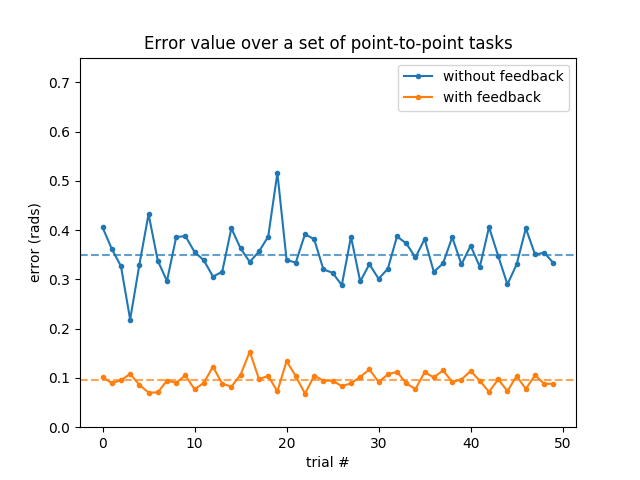
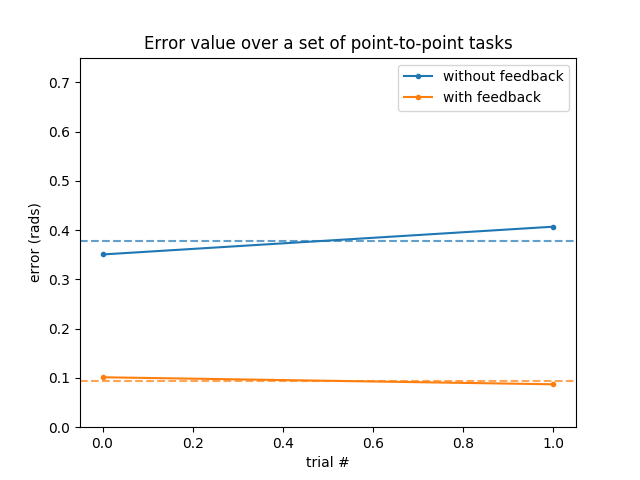
task switch is added now

diff --git a/main.py b/main.py
@@ -22,62 +22,70 @@ np.random.seed(0)
 
 P = np.array([10, 15])
 I = np.array([2, 6])
-trial_number = 50
+trial_number = 2
 
-features=np.ones(10,)
-cycle_durations = np.linspace(.1,10,trial_number)
-test1_no = cycle_durations.shape[0]
-exp1_average_error = np.zeros([2,test1_no]) # first row open-loop and second row close-loop
-#cycle length experiment
-for cycle_duration_in_seconds, ii in zip(cycle_durations, range(test1_no)):
-	[q0_filtered, q1_filtered]  = feat_to_positions_fcn(features, timestep=0.005, cycle_duration_in_seconds = cycle_duration_in_seconds, show=False)
-	q0_filtered_10 = np.tile(q0_filtered,10)
-	q1_filtered_10 = np.tile(q1_filtered,10)
-	desired_kinematics = positions_to_kinematics_fcn(q0_filtered_10, q1_filtered_10, timestep = 0.005)
-	exp1_average_error[0,ii] = openloop_run_fcn(model=model, desired_kinematics=desired_kinematics, plot_outputs=False, Mj_render=False)
-	exp1_average_error[1,ii] = closeloop_run_fcn(model=model, desired_kinematics=desired_kinematics, P=P, I=I, plot_outputs=False, Mj_render=False) # K = [10, 15]
+experiments_switch=[0, 0, 1, 0]
+for ii in range(len(experiments_switch)):
+	globals()["exp{}_average_error".format(ii+1)]=np.zeros([2,1])
 
-test2_no = trial_number
-exp2_average_error = np.zeros([2,test2_no])
-for ii in range(test2_no):
-	features = np.random.rand(10)*.8+.2
-	[q0_filtered, q1_filtered]  = feat_to_positions_fcn(features, timestep=0.005, cycle_duration_in_seconds = 3.3, show=False)
-	#import pdb; pdb.set_trace()
-	q0_filtered_10 = np.tile(q0_filtered,10)
-	q1_filtered_10 = np.tile(q1_filtered,10)
-	desired_kinematics = positions_to_kinematics_fcn(q0_filtered_10, q1_filtered_10, timestep = 0.005)
-	exp2_average_error[0,ii] = openloop_run_fcn(model=model, desired_kinematics=desired_kinematics, plot_outputs=False, Mj_render=False)
-	exp2_average_error[1,ii] = closeloop_run_fcn(model=model, desired_kinematics=desired_kinematics, P=P, I=I, plot_outputs=False, Mj_render=False) # K = [10, 15]
-	#print("error_without: ", exp2_average_error[0,0], "error with: ", exp2_average_error[1,0])
 
-test3_no = trial_number
-exp3_average_error = np.zeros([2,test3_no])
-for ii in range(test3_no):
-	q0 = p2p_positions_gen_fcn(low=-np.pi/3, high=np.pi/3, number_of_positions=10, duration_of_each_position=3, timestep=.005)
-	q1 = p2p_positions_gen_fcn(low=-np.pi/2, high=0, number_of_positions=10, duration_of_each_position=3, timestep=.005)
+if experiments_switch[0] ==1:
+	features=np.ones(10,)
+	cycle_durations = np.linspace(.1,10,trial_number)
+	test1_no = cycle_durations.shape[0]
+	exp1_average_error = np.zeros([2,test1_no]) # first row open-loop and second row close-loop
+	#cycle length experiment
+	for cycle_duration_in_seconds, ii in zip(cycle_durations, range(test1_no)):
+		[q0_filtered, q1_filtered]  = feat_to_positions_fcn(features, timestep=0.005, cycle_duration_in_seconds = cycle_duration_in_seconds, show=False)
+		q0_filtered_10 = np.tile(q0_filtered,10)
+		q1_filtered_10 = np.tile(q1_filtered,10)
+		desired_kinematics = positions_to_kinematics_fcn(q0_filtered_10, q1_filtered_10, timestep = 0.005)
+		exp1_average_error[0,ii] = openloop_run_fcn(model=model, desired_kinematics=desired_kinematics, plot_outputs=False, Mj_render=False)
+		exp1_average_error[1,ii] = closeloop_run_fcn(model=model, desired_kinematics=desired_kinematics, P=P, I=I, plot_outputs=False, Mj_render=False) # K = [10, 15]
+
+if experiments_switch[1] ==1:
+	test2_no = trial_number
+	exp2_average_error = np.zeros([2,test2_no])
+	for ii in range(test2_no):
+		features = np.random.rand(10)*.8+.2
+		[q0_filtered, q1_filtered]  = feat_to_positions_fcn(features, timestep=0.005, cycle_duration_in_seconds = 3.3, show=False)
+		#import pdb; pdb.set_trace()
+		q0_filtered_10 = np.tile(q0_filtered,10)
+		q1_filtered_10 = np.tile(q1_filtered,10)
+		desired_kinematics = positions_to_kinematics_fcn(q0_filtered_10, q1_filtered_10, timestep = 0.005)
+		exp2_average_error[0,ii] = openloop_run_fcn(model=model, desired_kinematics=desired_kinematics, plot_outputs=False, Mj_render=False)
+		exp2_average_error[1,ii] = closeloop_run_fcn(model=model, desired_kinematics=desired_kinematics, P=P, I=I, plot_outputs=False, Mj_render=False) # K = [10, 15]
+		#print("error_without: ", exp2_average_error[0,0], "error with: ", exp2_average_error[1,0])
+
+if experiments_switch[2] ==1:
+	test3_no = trial_number
+	exp3_average_error = np.zeros([2,test3_no])
+	for ii in range(test3_no):
+		q0 = p2p_positions_gen_fcn(low=-np.pi/3, high=np.pi/3, number_of_positions=10, duration_of_each_position=3, timestep=.005)
+		q1 = p2p_positions_gen_fcn(low=-np.pi/2, high=0, number_of_positions=10, duration_of_each_position=3, timestep=.005)
+		desired_kinematics = positions_to_kinematics_fcn(q0, q1, timestep = 0.005)
+		exp3_average_error[0,ii] = openloop_run_fcn(model=model, desired_kinematics=desired_kinematics, plot_outputs=False, Mj_render=False)
+		exp3_average_error[1,ii] = closeloop_run_fcn(model=model, desired_kinematics=desired_kinematics,  P=P, I=I, plot_outputs=False, Mj_render=False) # K = [10, 15]
+
+if experiments_switch[3] ==1:
+	test4_no = 1
+	exp4_average_error = np.zeros([2,test4_no])
+	q0 = p2p_positions_gen_fcn(low=np.pi/3, high=np.pi/3, number_of_positions=1, duration_of_each_position=1, timestep=.005)
+	q0 = np.append(q0,p2p_positions_gen_fcn(low=0, high=0, number_of_positions=1, duration_of_each_position=14, timestep=.005))
+	q1 = p2p_positions_gen_fcn(low=-np.pi/2, high=-np.pi/2, number_of_positions=1, duration_of_each_position=1, timestep=.005)
+	q1 = np.append(q1,p2p_positions_gen_fcn(low=0, high=0, number_of_positions=1, duration_of_each_position=14, timestep=.005))
 	desired_kinematics = positions_to_kinematics_fcn(q0, q1, timestep = 0.005)
-	exp3_average_error[0,ii] = openloop_run_fcn(model=model, desired_kinematics=desired_kinematics, plot_outputs=False, Mj_render=False)
-	exp3_average_error[1,ii] = closeloop_run_fcn(model=model, desired_kinematics=desired_kinematics,  P=P, I=I, plot_outputs=False, Mj_render=False) # K = [10, 15]
-
-
-test4_no = 1
-exp4_average_error = np.zeros([2,test4_no])
-q0 = p2p_positions_gen_fcn(low=np.pi/3, high=np.pi/3, number_of_positions=1, duration_of_each_position=1, timestep=.005)
-q0 = np.append(q0,p2p_positions_gen_fcn(low=0, high=0, number_of_positions=1, duration_of_each_position=14, timestep=.005))
-q1 = p2p_positions_gen_fcn(low=-np.pi/2, high=-np.pi/2, number_of_positions=1, duration_of_each_position=1, timestep=.005)
-q1 = np.append(q1,p2p_positions_gen_fcn(low=0, high=0, number_of_positions=1, duration_of_each_position=14, timestep=.005))
-desired_kinematics = positions_to_kinematics_fcn(q0, q1, timestep = 0.005)
-exp4_average_error[0,:] = openloop_run_fcn(model=model, desired_kinematics=desired_kinematics, model_ver=2, plot_outputs=False, Mj_render=False)
-q0 = p2p_positions_gen_fcn(low=np.pi/3, high=np.pi/3, number_of_positions=1, duration_of_each_position=1, timestep=.005)
-q0 = np.append(q0,p2p_positions_gen_fcn(low=0, high=0, number_of_positions=1, duration_of_each_position=4, timestep=.005))
-q1 = p2p_positions_gen_fcn(low=-np.pi/2, high=-np.pi/2, number_of_positions=1, duration_of_each_position=1, timestep=.005)
-q1 = np.append(q1,p2p_positions_gen_fcn(low=0, high=0, number_of_positions=1, duration_of_each_position=4, timestep=.005))
-desired_kinematics = positions_to_kinematics_fcn(q0, q1, timestep = 0.005)
-exp4_average_error[1,:] = closeloop_run_fcn(model=model, desired_kinematics=desired_kinematics,  P=P, I=I, model_ver=2, plot_outputs=False, Mj_render=False)
+	exp4_average_error[0,:] = openloop_run_fcn(model=model, desired_kinematics=desired_kinematics, model_ver=2, plot_outputs=False, Mj_render=False)
+	q0 = p2p_positions_gen_fcn(low=np.pi/3, high=np.pi/3, number_of_positions=1, duration_of_each_position=1, timestep=.005)
+	q0 = np.append(q0,p2p_positions_gen_fcn(low=0, high=0, number_of_positions=1, duration_of_each_position=4, timestep=.005))
+	q1 = p2p_positions_gen_fcn(low=-np.pi/2, high=-np.pi/2, number_of_positions=1, duration_of_each_position=1, timestep=.005)
+	q1 = np.append(q1,p2p_positions_gen_fcn(low=0, high=0, number_of_positions=1, duration_of_each_position=4, timestep=.005))
+	desired_kinematics = positions_to_kinematics_fcn(q0, q1, timestep = 0.005)
+	exp4_average_error[1,:] = closeloop_run_fcn(model=model, desired_kinematics=desired_kinematics,  P=P, I=I, model_ver=2, plot_outputs=False, Mj_render=False)
 
 errors_all = [exp1_average_error, exp2_average_error, exp3_average_error, exp4_average_error]
-pickle.dump([errors_all],open("results/P_I/feedback_errors_P_I.sav", 'wb')) # saving the results with only P
-[errors_all] = pickle.load(open("results/P_I/feedback_errors_P_I.sav", 'rb')) # loading the results with only P
+pickle.dump([errors_all],open("results/feedback_errors_test.sav", 'wb')) # saving the results with only P
+[errors_all] = pickle.load(open("results/feedback_errors_test.sav", 'rb')) # loading the results with only P
 plot_comparison_figures_fcn(errors_all)
 
 #import pdb; pdb.set_trace()
